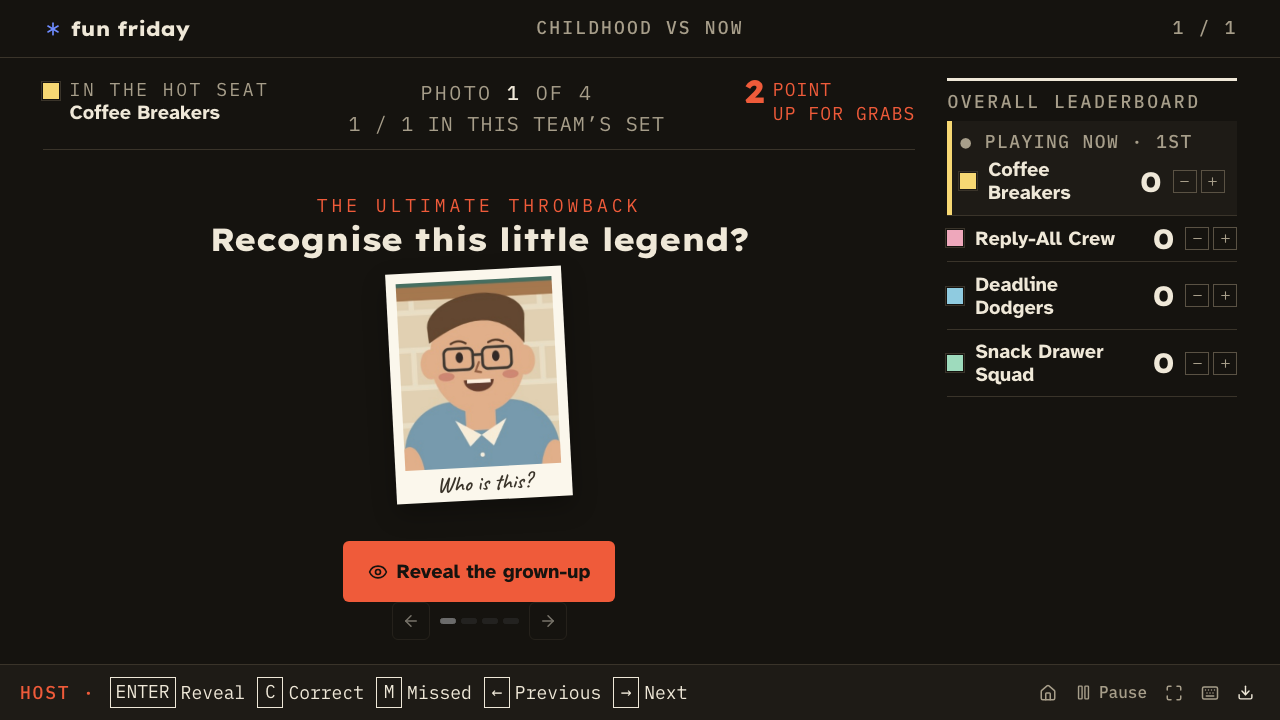
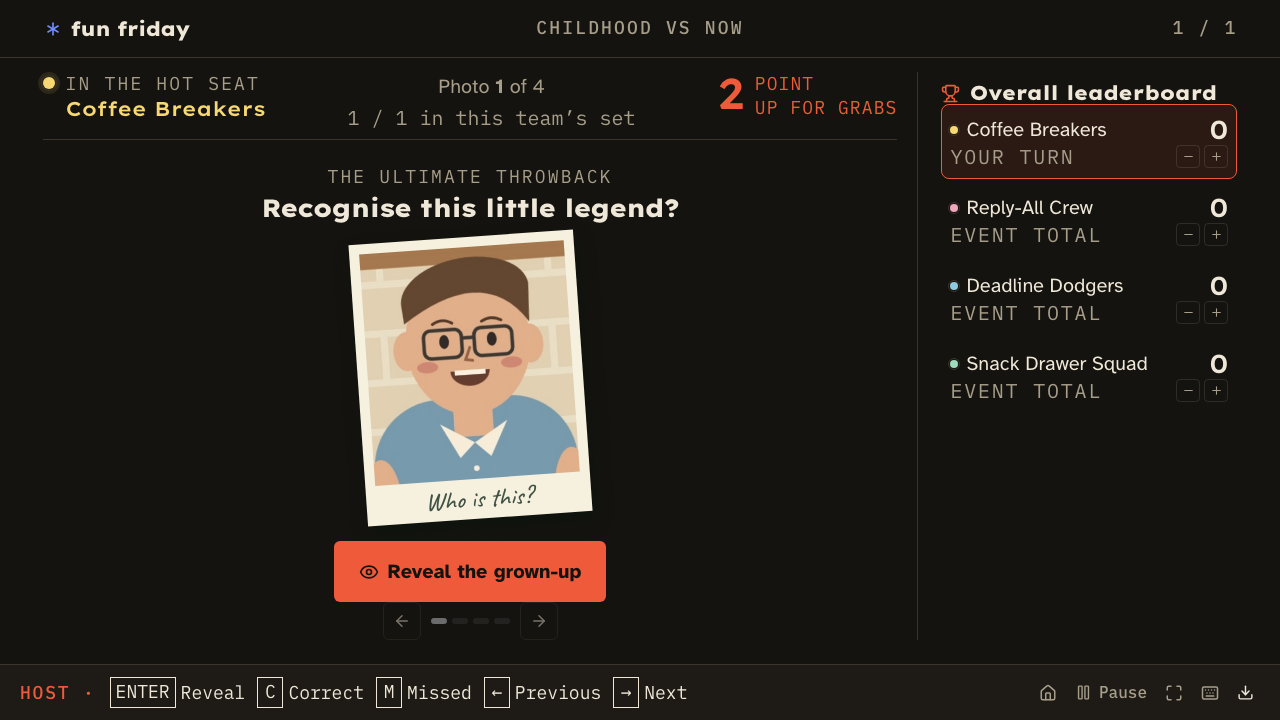
feat(ink): use the After Hours stage layout for Childhood vs Now
The custom Ink layout (polaroids either side of the name, slab scoreboard)
was too dominating. Ink's Childhood vs Now stage now keeps the After Hours
layout and scoreboard, restyled only by the Ink colour and type tokens.
Kept: the small +N CORRECT stamp under the fun fact, and the active team's
name in its team colour (Ink's team-text mix had hidden it).

The Ink stage chrome and scoreboard restyle now apply to Act It Out only.
The responsive stage-size rules apply to Ink again, except the Act It Out
grid and score rows, which a zero-specificity :where() exempts. After
Hours and Game Show are unchanged (24/24).

diff --git a/src/theme/styles.css b/src/theme/styles.css
@@ -120,9 +120,9 @@
   .aio-actor { position: absolute; right: 13%; bottom: 14%; font-family: var(--heading); font-size: 38px; color: var(--yellow); transform: rotate(7deg); }
 }
 @layer responsive {
-  @media (min-width: 1500px) and (min-height: 800px) { :where(:root:not([data-theme="ink"])) .childhood-polaroid { width: 280px; height: 350px; } :where(:root:not([data-theme="ink"])) .reveal-polaroids .polaroid { width: 245px; height: 307px; } .round-scene { padding: 20px 0; } .question-intro { margin-bottom: 28px; } :where(:root:not([data-theme="ink"])) .scoreboard-title h3 { font-size: 22px; } :where(:root:not([data-theme="ink"])) .stage-layout { grid-template-columns: minmax(0, 1fr) 300px; } }
+  @media (min-width: 1500px) and (min-height: 800px) { .childhood-polaroid { width: 280px; height: 350px; } .reveal-polaroids .polaroid { width: 245px; height: 307px; } .round-scene { padding: 20px 0; } .question-intro { margin-bottom: 28px; } .scoreboard-title h3:where(:not([data-theme="ink"] .aio-stage *)) { font-size: 22px; } .stage-layout:where(:not([data-theme="ink"] .aio-stage)) { grid-template-columns: minmax(0, 1fr) 300px; } }
   @media (max-width: 1400px) { .home-page, .library-page, .app-footer { margin-left: 45px; margin-right: 45px; } .setup-topbar, .setup-content.wide { margin-left: 35px; margin-right: 35px; } .setup-content { margin-left: max(35px, calc((100vw - 1100px) / 2)); margin-right: max(35px, calc((100vw - 1100px) / 2)); } .main-nav { margin-left: 25px; } .activities-grid { grid-template-columns: minmax(0, 3.3fr) minmax(215px, 1fr); } .activity-card { grid-template-columns: minmax(230px, .9fr) minmax(340px, 1.1fr); } .activity-copy { padding: 23px; } .activity-copy h2 { font-size: 30px; } }
-  @media (max-height: 760px) and (min-width: 1000px) { :where(:root:not([data-theme="ink"])) .stage-layout { min-height: 525px; padding-top: 14px; gap: 20px; } .round-scene { min-height: 327px; } :where(:root:not([data-theme="ink"])) .question-intro h1 { font-size: 25px; } :where(:root:not([data-theme="ink"])) .childhood-polaroid { width: 225px; height: 282px; } .question-intro { margin-bottom: 15px; } .stage-prompt { margin-top: 10px; font-size: 18px; } :where(:root:not([data-theme="ink"])) .reveal-polaroids .polaroid { width: 190px; height: 239px; } :where(:root:not([data-theme="ink"])) .reveal-name { margin-top: 14px; } :where(:root:not([data-theme="ink"])) .reveal-name h1 { font-size: 38px; } :where(:root:not([data-theme="ink"])) .reveal-name p { font-size: 14px; } :where(:root:not([data-theme="ink"])) .polaroid-caption { font-size: 25px; } .scoreboard-note { padding-top: 15px; } :where(:root:not([data-theme="ink"])) .score-row { margin-bottom: 3px; padding-top: 12px; } .scoreboard > p { margin-bottom: 15px; } .finale { padding-top: 20px; } .group-wipe { --group-max-height: 43vh; } .group-reveal-title { margin-bottom: 15px; } .group-reveal-title h1 { font-size: 30px; } .wipe-control { margin: 10px auto 12px; } .finale-confetti { margin-bottom: 9px; font-size: 26px; } .podium { margin-top: 20px; } }
+  @media (max-height: 760px) and (min-width: 1000px) { .stage-layout:where(:not([data-theme="ink"] .aio-stage)) { min-height: 525px; padding-top: 14px; gap: 20px; } .round-scene { min-height: 327px; } .question-intro h1 { font-size: 25px; } .childhood-polaroid { width: 225px; height: 282px; } .question-intro { margin-bottom: 15px; } .stage-prompt { margin-top: 10px; font-size: 18px; } .reveal-polaroids .polaroid { width: 190px; height: 239px; } .reveal-name { margin-top: 14px; } .reveal-name h1 { font-size: 38px; } .reveal-name p { font-size: 14px; } .polaroid-caption { font-size: 25px; } .scoreboard-note { padding-top: 15px; } .score-row:where(:not([data-theme="ink"] .aio-stage *)) { margin-bottom: 3px; padding-top: 12px; } .scoreboard > p { margin-bottom: 15px; } .finale { padding-top: 20px; } .group-wipe { --group-max-height: 43vh; } .group-reveal-title { margin-bottom: 15px; } .group-reveal-title h1 { font-size: 30px; } .wipe-control { margin: 10px auto 12px; } .finale-confetti { margin-bottom: 9px; font-size: 26px; } .podium { margin-top: 20px; } }
   @media (max-width: 1100px) { .app-header { padding: 0 25px; gap: 20px; } .offline-status span { display: none; } .main-nav { margin-left: 10px; gap: 20px; } .home-page, .library-page, .app-footer { margin-left: 30px; margin-right: 30px; } .home-hero { padding-top: 50px; padding-bottom: 50px; } .hero-note { width: 235px; padding: 24px; margin-right: 0; } .hero-note strong { font-size: 24px; } .hero-spark { right: 300px; font-size: 35px; } .activities-grid { grid-template-columns: 1fr; } .coming-soon-card { display: none; } .activity-card { grid-template-columns: .95fr 1.1fr; } .activity-copy { padding: 32px; } .how-it-works { grid-template-columns: 1.2fr 1fr 1fr 1fr; gap: 20px; } .how-it-works h3 { font-size: 22px; } .setup-steps { margin-left: 25px; margin-right: 25px; } .people-table-heading, .person-row { grid-template-columns: 165px minmax(180px, 1fr) 110px 90px; gap: 14px; padding-left: 16px; padding-right: 16px; } .crop-preview { width: 55px; height: 70px; } .stage-layout { grid-template-columns: minmax(0, 1fr) 225px; padding-left: 20px; padding-right: 20px; gap: 18px; } .scoreboard { padding-left: 15px; } .scoreboard-title h3 { font-size: 18px; } .active-team strong { font-size: 18px; } .point-stake > span { display: none; } .result-buttons .button { padding: 10px; font-size: 14px; } .result-buttons kbd { display: none; } .round-actions { gap: 10px; } }
   @media (max-width: 760px) { .app-header { height: auto; min-height: 78px; padding: 18px 20px 0; flex-wrap: wrap; gap: 18px 12px; } .brand { font-size: 24px; } .header-actions { margin-left: auto; gap: 3px; } .header-export { border: 0; padding: 8px; } .header-export span, .offline-status { display: none; } .main-nav { order: 3; width: 100%; height: 40px; margin: 0; gap: 28px; } .main-nav button { font-size: 13px; padding-bottom: 10px; } .home-page, .library-page, .app-footer { margin-left: 22px; margin-right: 22px; } .home-hero { padding: 40px 0 35px; } .home-hero h1 { font-size: clamp(35px, 7.6vw, 52px); } .home-hero p { font-size: 16px; } .hero-note, .hero-spark { display: none; } .hero-details { gap: 17px; font-size: 11px; flex-wrap: wrap; } .hero-eyebrow { font-size: 9px; } .section-label h2 { font-size: 27px; } .section-label > .pill { font-size: 10px; padding: 5px 8px; } .section-label .eyebrow { font-size: 9px; } .activity-card { grid-template-columns: 1fr; } .activity-visual { min-height: 270px; } .mini-polaroid { max-width: 150px; height: 65%; } .mini-then { left: calc(50% - 135px); } .mini-now { left: calc(50% - 10px); } .activity-copy { padding: 25px; } .activity-copy h2 { font-size: 30px; } .activity-card-actions { margin-top: 23px; gap: 10px; } .activity-card-actions .button { font-size: 14px; } .how-it-works { grid-template-columns: 1fr 1fr; gap: 27px 25px; margin-top: 28px; } .how-it-works h3 { font-size: 24px; } .how-it-works > div:first-child { grid-column: 1 / -1; } .how-it-works > div:last-child { grid-column: 1 / -1; } .home-bottom { flex-direction: column; gap: 12px; font-size: 11px; } .app-footer { flex-wrap: wrap; gap: 10px; font-size: 10px; } .app-footer > span:last-child { display: none; } .resume-card { flex-direction: column; align-items: flex-start; }
     .setup-topbar { margin: 0 20px; padding: 14px 0; gap: 8px; } .setup-topbar > span:last-child { display: none; } .setup-topbar > span { margin-left: auto; font-size: 12px; } .setup-steps { margin: 23px 10px 0; gap: 3px; } .setup-steps button { flex-direction: column; gap: 6px; padding: 0 6px; font-size: 10px; text-align: center; } .setup-steps button > span { width: 31px; height: 31px; } .setup-steps::before { top: 15px; right: 30px; } .setup-content, .setup-content.wide { padding: 32px 0 25px; margin: 0 20px; } .section-heading h1 { font-size: 33px; } .section-heading > p { font-size: 15px; } .section-heading .eyebrow { font-size: 9px; } .upload-grid, .photo-pair-grid, .game-setup-grid { grid-template-columns: 1fr; } .drop-zone { min-height: 310px; } .drop-zone h3 { font-size: 24px; } .drop-zone.has-image > img { height: 170px; } .info-strip { align-items: flex-start; font-size: 12px; } .setup-footer { gap: 10px; flex-wrap: wrap; } .setup-footer > .button { font-size: 13px; padding: 11px 13px; } .demo-banner { font-size: 10px; flex-wrap: wrap; gap: 4px 8px; padding: 8px 15px; } .demo-banner > span { font-size: 9px; }
@@ -550,58 +550,43 @@
 }
 
 @layer ink {
-  /* ---- Stage chrome shared by both stage screens (handoff screens 5 and 6) ---- */
-  [data-theme="ink"] [data-mode="show"] .stage-layout { grid-template-columns: minmax(0, 1fr) clamp(290px, 22vw, 420px); gap: clamp(24px, 2.5vw, 48px); }
-  [data-theme="ink"] [data-mode="show"] .round-header { border-bottom: 1px solid var(--rule); padding-bottom: 12px; }
-  [data-theme="ink"] [data-mode="show"] .active-team .team-dot { width: 16px; height: 16px; border-radius: 0; box-shadow: none; }
-  [data-theme="ink"] [data-mode="show"] .active-team small { color: var(--muted); letter-spacing: .14em; }
-  [data-theme="ink"] [data-mode="show"] .active-team strong { color: var(--paper); font: 700 clamp(20px, 1.3vw, 26px)/1.1 var(--body); letter-spacing: 0; }
-  [data-theme="ink"] [data-mode="show"] .round-count { font-family: var(--label); color: var(--muted); letter-spacing: .12em; text-transform: uppercase; }
-  [data-theme="ink"] [data-mode="show"] .round-count b { color: var(--paper); font-weight: 500; }
-  [data-theme="ink"] [data-mode="show"] .round-count small, [data-theme="ink"] [data-mode="show"] .point-stake > span { white-space: nowrap; letter-spacing: .06em; }
-  [data-theme="ink"] [data-mode="show"] .point-stake { color: var(--vermilion); }
-  [data-theme="ink"] [data-mode="show"] .point-stake > b { font: 800 clamp(32px, 2.3vw, 44px)/.85 var(--heading); letter-spacing: -.06em; }
+  /* ---- Act It Out stage chrome. Childhood vs Now keeps the After Hours stage layout, in Ink colours and type. ---- */
+  [data-theme="ink"] [data-mode="show"] .aio-stage .stage-layout { grid-template-columns: minmax(0, 1fr) clamp(290px, 22vw, 420px); gap: clamp(24px, 2.5vw, 48px); }
+  [data-theme="ink"] [data-mode="show"] .aio-stage .round-header { border-bottom: 1px solid var(--rule); padding-bottom: 12px; }
+  [data-theme="ink"] [data-mode="show"] .aio-stage .active-team .team-dot { width: 16px; height: 16px; border-radius: 0; box-shadow: none; }
+  [data-theme="ink"] [data-mode="show"] .aio-stage .active-team small { color: var(--muted); letter-spacing: .14em; }
+  /* Ink blends team text fully to ink (--team-text-mix: 0%), which hid the name on the dark stage. */
+  [data-theme="ink"] [data-mode="show"] .active-team strong { color: var(--team-color); }
+  [data-theme="ink"] [data-mode="show"] .aio-stage .round-count { font-family: var(--label); color: var(--muted); letter-spacing: .12em; text-transform: uppercase; }
+  [data-theme="ink"] [data-mode="show"] .aio-stage .round-count b { color: var(--paper); font-weight: 500; }
+  [data-theme="ink"] [data-mode="show"] .aio-stage .round-count small, [data-theme="ink"] [data-mode="show"] .aio-stage .point-stake > span { white-space: nowrap; letter-spacing: .06em; }
+  [data-theme="ink"] [data-mode="show"] .aio-stage .point-stake { color: var(--vermilion); }
+  [data-theme="ink"] [data-mode="show"] .aio-stage .point-stake > b { font: 800 clamp(32px, 2.3vw, 44px)/.85 var(--heading); letter-spacing: -.06em; }
 
   /* Scoreboard: rules between rows, the team on stage as a colour slab ("● PLAYING NOW · 1ST"). */
-  [data-theme="ink"] [data-mode="show"] .scoreboard { border-left: 0; padding: 0; display: flex; flex-direction: column; }
-  [data-theme="ink"] [data-mode="show"] .scoreboard-title { border-top: 3px solid var(--paper); padding: 10px 0 8px; }
-  [data-theme="ink"] [data-mode="show"] .scoreboard-title svg { display: none; }
-  [data-theme="ink"] [data-mode="show"] .scoreboard-title h3 { font: 500 max(18px, 1.1vw)/1.2 var(--label); letter-spacing: .14em; text-transform: uppercase; color: var(--muted); }
-  [data-theme="ink"] [data-mode="show"] .scoreboard .score-row { display: grid; grid-template-columns: minmax(0, 1fr) auto; grid-template-areas: "head buttons"; align-items: center; column-gap: 12px; margin: 0; padding: clamp(8px, .8vw, 14px) 0; border: 0; border-bottom: 1px solid var(--rule); border-radius: 0; background: none; }
-  [data-theme="ink"] [data-mode="show"] .score-heading { grid-area: head; gap: 12px; min-width: 0; }
-  [data-theme="ink"] [data-mode="show"] .score-heading .team-dot { width: 16px; height: 16px; border-radius: 0; flex-shrink: 0; }
-  [data-theme="ink"] [data-mode="show"] .score-heading strong { font: 700 clamp(20px, 1.2vw, 24px)/1.15 var(--body); overflow-wrap: anywhere; }
-  [data-theme="ink"] [data-mode="show"] .score-heading b { font: 800 clamp(28px, 2.1vw, 40px)/.9 var(--heading); letter-spacing: -.05em; }
-  [data-theme="ink"] [data-mode="show"] .score-meta { display: contents; }
-  [data-theme="ink"] [data-mode="show"] .score-meta > span { display: none; }
-  [data-theme="ink"] [data-mode="show"] .score-meta > div { grid-area: buttons; }
-  [data-theme="ink"] [data-mode="show"] .score-meta button { border-radius: 0; border-color: var(--rule-strong); color: var(--muted); }
-  [data-theme="ink"] [data-mode="show"] .scoreboard .score-row.active { grid-template-areas: "label label" "head buttons"; padding: clamp(8px, .8vw, 14px) clamp(12px, 1vw, 18px); background: var(--ink-2); box-shadow: inset 5px 0 var(--team-color); }
-  [data-theme="ink"] [data-mode="show"] .score-row.active::before { content: "● PLAYING NOW · " attr(data-rank); grid-area: label; margin-bottom: 6px; color: var(--muted); font: 500 18px/1.2 var(--label); letter-spacing: .08em; white-space: nowrap; }
-  [data-theme="ink"] [data-mode="show"] .score-row.active .team-dot { display: block; }
-  [data-theme="ink"] [data-mode="show"] .score-row.active .score-meta button { border-color: var(--rule-strong); color: var(--muted); }
+  [data-theme="ink"] [data-mode="show"] .aio-stage .scoreboard { border-left: 0; padding: 0; display: flex; flex-direction: column; }
+  [data-theme="ink"] [data-mode="show"] .aio-stage .scoreboard-title { border-top: 3px solid var(--paper); padding: 10px 0 8px; }
+  [data-theme="ink"] [data-mode="show"] .aio-stage .scoreboard-title svg { display: none; }
+  [data-theme="ink"] [data-mode="show"] .aio-stage .scoreboard-title h3 { font: 500 max(18px, 1.1vw)/1.2 var(--label); letter-spacing: .14em; text-transform: uppercase; color: var(--muted); }
+  [data-theme="ink"] [data-mode="show"] .aio-stage .scoreboard .score-row { display: grid; grid-template-columns: minmax(0, 1fr) auto; grid-template-areas: "head buttons"; align-items: center; column-gap: 12px; margin: 0; padding: clamp(8px, .8vw, 14px) 0; border: 0; border-bottom: 1px solid var(--rule); border-radius: 0; background: none; }
+  [data-theme="ink"] [data-mode="show"] .aio-stage .score-heading { grid-area: head; gap: 12px; min-width: 0; }
+  [data-theme="ink"] [data-mode="show"] .aio-stage .score-heading .team-dot { width: 16px; height: 16px; border-radius: 0; flex-shrink: 0; }
+  [data-theme="ink"] [data-mode="show"] .aio-stage .score-heading strong { font: 700 clamp(20px, 1.2vw, 24px)/1.15 var(--body); overflow-wrap: anywhere; }
+  [data-theme="ink"] [data-mode="show"] .aio-stage .score-heading b { font: 800 clamp(28px, 2.1vw, 40px)/.9 var(--heading); letter-spacing: -.05em; }
+  [data-theme="ink"] [data-mode="show"] .aio-stage .score-meta { display: contents; }
+  [data-theme="ink"] [data-mode="show"] .aio-stage .score-meta > span { display: none; }
+  [data-theme="ink"] [data-mode="show"] .aio-stage .score-meta > div { grid-area: buttons; }
+  [data-theme="ink"] [data-mode="show"] .aio-stage .score-meta button { border-radius: 0; border-color: var(--rule-strong); color: var(--muted); }
+  [data-theme="ink"] [data-mode="show"] .aio-stage .scoreboard .score-row.active { grid-template-areas: "label label" "head buttons"; padding: clamp(8px, .8vw, 14px) clamp(12px, 1vw, 18px); background: var(--ink-2); box-shadow: inset 5px 0 var(--team-color); }
+  [data-theme="ink"] [data-mode="show"] .aio-stage .score-row.active::before { content: "● PLAYING NOW · " attr(data-rank); grid-area: label; margin-bottom: 6px; color: var(--muted); font: 500 18px/1.2 var(--label); letter-spacing: .08em; white-space: nowrap; }
+  [data-theme="ink"] [data-mode="show"] .aio-stage .score-row.active .team-dot { display: block; }
+  [data-theme="ink"] [data-mode="show"] .aio-stage .score-row.active .score-meta button { border-color: var(--rule-strong); color: var(--muted); }
   /* Six or more teams: compact rows so eight fit at 1280×720 without clipping behind the host rail. */
-  [data-theme="ink"] [data-mode="show"] .scoreboard:has(.score-row ~ .score-row ~ .score-row ~ .score-row ~ .score-row ~ .score-row) .score-row { padding-block: 5px; }
-  [data-theme="ink"] [data-mode="show"] .scoreboard:has(.score-row ~ .score-row ~ .score-row ~ .score-row ~ .score-row ~ .score-row) .score-heading strong { font-size: 20px; }
-  [data-theme="ink"] [data-mode="show"] .scoreboard:has(.score-row ~ .score-row ~ .score-row ~ .score-row ~ .score-row ~ .score-row) .score-heading b { font-size: clamp(30px, 2.2vw, 44px); }
-  [data-theme="ink"] [data-mode="show"] .scoreboard:has(.score-row ~ .score-row ~ .score-row ~ .score-row ~ .score-row ~ .score-row) .score-row.active::before { margin-bottom: 4px; }
+  [data-theme="ink"] [data-mode="show"] .aio-stage .scoreboard:has(.score-row ~ .score-row ~ .score-row ~ .score-row ~ .score-row ~ .score-row) .score-row { padding-block: 5px; }
+  [data-theme="ink"] [data-mode="show"] .aio-stage .scoreboard:has(.score-row ~ .score-row ~ .score-row ~ .score-row ~ .score-row ~ .score-row) .score-heading strong { font-size: 20px; }
+  [data-theme="ink"] [data-mode="show"] .aio-stage .scoreboard:has(.score-row ~ .score-row ~ .score-row ~ .score-row ~ .score-row ~ .score-row) .score-heading b { font-size: clamp(30px, 2.2vw, 44px); }
+  [data-theme="ink"] [data-mode="show"] .aio-stage .scoreboard:has(.score-row ~ .score-row ~ .score-row ~ .score-row ~ .score-row ~ .score-row) .score-row.active::before { margin-bottom: 4px; }
 
-  /* ---- Stage · Childhood vs Now (handoff screen 5): then | name | now, polaroids either side ---- */
-  [data-theme="ink"] [data-mode="show"] .cvn-stage .polaroid { background: var(--paper-2); padding: 10px 10px 0; box-shadow: var(--shadow-polaroid); color: var(--rule); }
-  [data-theme="ink"] [data-mode="show"] .cvn-stage .polaroid-caption { font: 600 clamp(22px, 1.6vw, 32px)/1.5 var(--hand); color: var(--rule); }
-  [data-theme="ink"] [data-mode="show"] .cvn-stage .question-intro .eyebrow { color: var(--vermilion); letter-spacing: .22em; }
-  [data-theme="ink"] [data-mode="show"] .cvn-stage .question-intro h1 { font: 800 clamp(32px, 2.5vw, 48px)/1 var(--heading); letter-spacing: -.05em; }
-  [data-theme="ink"] [data-mode="show"] .cvn-stage .childhood-polaroid { width: auto; height: min(32vh, 360px); aspect-ratio: 360 / 470; transform: rotate(-3deg); }
-  [data-theme="ink"] [data-mode="show"] .cvn-stage .round-scene:has(.reveal-polaroids) { display: grid; grid-template-columns: minmax(0, 1fr) minmax(0, 1.3fr) minmax(0, 1fr); align-items: center; gap: clamp(16px, 2vw, 40px); }
-  [data-theme="ink"] [data-mode="show"] .cvn-stage .reveal-polaroids { display: contents; }
-  [data-theme="ink"] [data-mode="show"] .cvn-stage .reveal-arrow { display: none; }
-  [data-theme="ink"] [data-mode="show"] .cvn-stage .reveal-polaroids .polaroid { grid-row: 1; width: min(70%, 280px, calc(36vh * 360 / 470)); height: auto; aspect-ratio: 360 / 470; }
-  [data-theme="ink"] [data-mode="show"] .cvn-stage .then-reveal { grid-column: 1; justify-self: end; transform: rotate(-4deg); }
-  [data-theme="ink"] [data-mode="show"] .cvn-stage .now-reveal { grid-column: 3; justify-self: start; transform: rotate(3deg); }
-  [data-theme="ink"] [data-mode="show"] .cvn-stage .reveal-name { grid-column: 2; grid-row: 1; display: flex; flex-direction: column; align-items: center; max-width: none; margin: 0; }
-  [data-theme="ink"] [data-mode="show"] .cvn-stage .reveal-name .eyebrow { font: 500 clamp(18px, 1vw, 20px)/1.2 var(--label); letter-spacing: .18em; color: var(--vermilion); }
-  [data-theme="ink"] [data-mode="show"] .cvn-stage .reveal-name h1 { font: 800 clamp(44px, 3.4vw, 64px)/.95 var(--heading); letter-spacing: -.06em; margin-top: 10px; color: var(--paper); }
-  [data-theme="ink"] [data-mode="show"] .cvn-stage .reveal-name p { font: 600 clamp(24px, 1.8vw, 34px)/1.15 var(--hand); color: var(--body-muted-soft); margin-top: 10px; }
 
   /* The "+N CORRECT" stamp lands with a small thump when the host marks the round correct. */
   [data-theme="ink"] [data-mode="show"] .correct-stamp { display: inline-flex; align-items: center; gap: clamp(8px, .7vw, 14px); max-width: 100%; margin-top: clamp(14px, 1.4vw, 28px); padding: clamp(4px, .4vw, 8px) clamp(12px, 1vw, 20px); border: 3px solid var(--vermilion); color: var(--vermilion); transform: rotate(-4deg); animation: ink-stamp 180ms ease-out both; }
